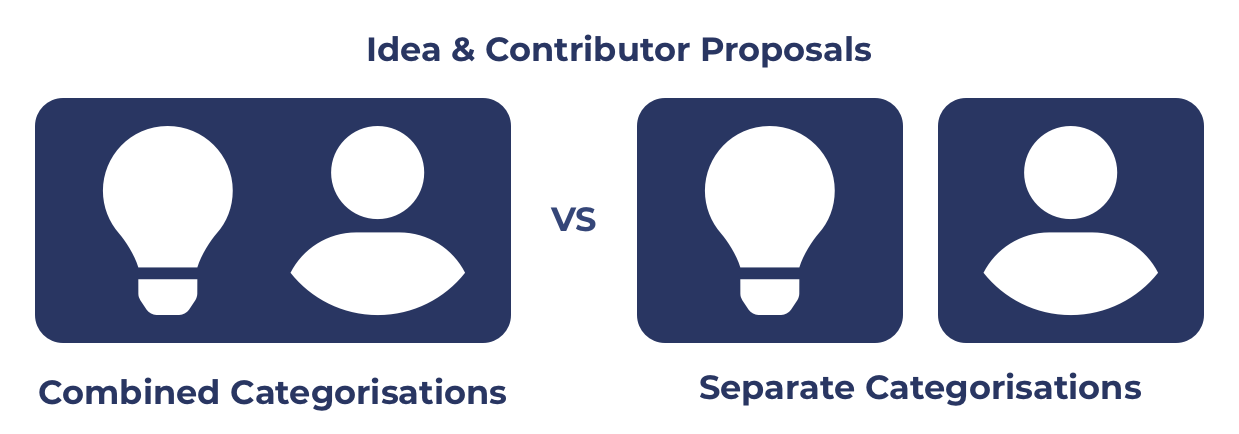
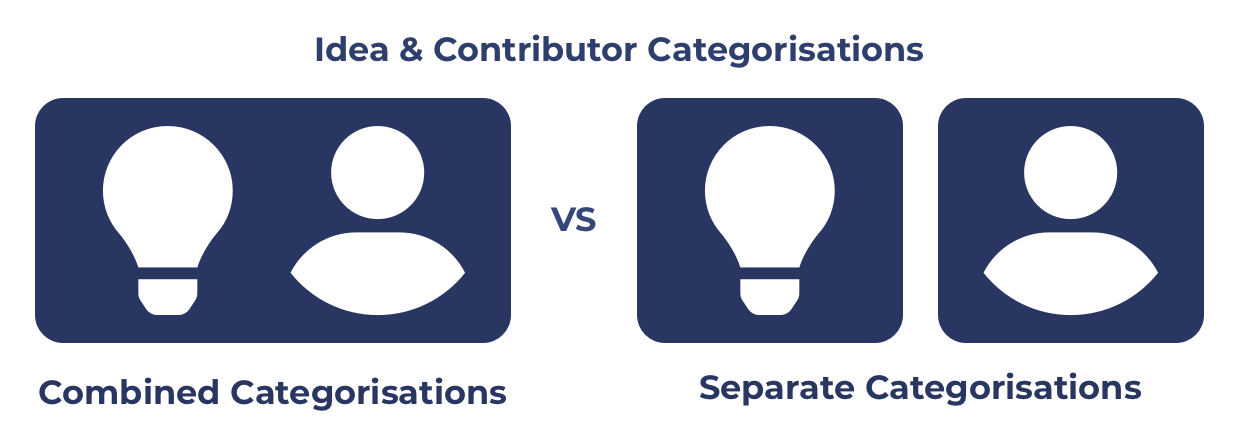
GitBook: [#7] No subject

Changed region(s): [[0.2454, 0.0899, 0.7667, 0.1498]]

diff --git a/funding-categorisation-analysis/combining-vs-separated-idea-and-contributor-categorisations.md b/funding-categorisation-analysis/combining-vs-separated-idea-and-contributor-categorisations.md
@@ -1,0 +1,85 @@
+---
+description: >-
+  Analysing whether idea and contributor categorisations should be in combined
+  or separate
+---
+
+# Combining vs Separated Idea & Contributor Categorisations
+
+<figure><img src="../.gitbook/assets/ideas-contributors-categorisations.png" alt=""><figcaption></figcaption></figure>
+
+Consider the potential focus area responsibilities for [Catalyst Contributors](https://docs.catalystcontributors.org/catalyst-contributors/catalyst-contributor/focus-areas) and [Cardano Contributors](https://docs.catalystcontributors.org/cardano-contributors/cardano-contributor/focus-areas).
+
+****
+
+**Factors to consider**
+
+* **Proposal funding frequency** - What frequency is needed for submitting either the idea or contributor based proposals? Is there a reason this frequency will diverge over time?
+* **Funding allocation clarity** - What clarity is provided by the approach used in how much funding will be allocated to ideas or contributor initiatives?
+* **Proposal structure** - What information is needed for idea and contributor proposals? How do they differ and what implications does that have?
+* **Proposal assessment approach** - How do idea or contributor proposals differ in how they are assessed and will this diverge over time?
+* **Proposal ranking** - What factors influence how the different proposal types are ranked? When should a good contributor proposal outrank a good idea proposal?
+* **Voting flexibility** - How easily can voters allocate funding to a wide range of initiatives at the voting stage?
+* **Voting complexity** - Is it easy for voters to understand and compare the options presented to them to make well informed decisions? Is it clear on the implications of their vote in terms of the outcomes that could happen?
+* **Insight and data integration** - Can insights and data be easily integrated into the funding process based on the approach being used?
+* **Categorisation clarity** - What clarity is there on how the categorisation should be used for proposers and voters?
+* **Categorisation budget weighting complexity** - How complex is it to decide on budget weightings due to the approach being used?
+* **Catalyst and Cardano ecosystem stability** - Do contributors receive delegated authority and stewardship to support and improve parts of the ecosystem? How important is their role in maintaining stability of the ecosystem?
+
+
+
+### **Categorisations that combine idea and contributor proposals**
+
+****
+
+**Advantages**
+
+* **More voting flexibility** - Voters can decide where to allocate funding between both ideas and contributors in a single categorisation. This gives them more flexibility at the voting stage.
+* **Lower categorisation budget weighting complexity** - Combining the idea and contributor categorisations reduces the number of categorisations which can help to decrease the complexity of handling budget weighting decisions between categorisations.
+
+
+
+**Issues**
+
+* **Diverging proposal funding frequencies** - Electing people to be responsible for supporting the ecosystem could become a high importance role for the ecosystem. This makes it less suitable for constantly changing who is elected. In comparison idea proposals could have a far higher frequency of being selected for funding. Idea proposals aren’t given the same responsibilities to support and maintain the ecosystem like contributors can be. Ideas are also independent from one another and can be executed separately. It is likely that the funding frequency for these proposal types differ as the community takes more ownership over the funding process and the importance of contributors over IOG increases over time.
+* **Poor funding allocation clarity** - Combining ideas and contributors into a combined single category makes it less clear on how much funding will actually be directed to contributors who are supporting and improving the ecosystem or ideas. The community can benefit from being able to be explicit on how much funding they believe is necessary for funding contributors.
+* **Difficulty handling diverging proposal structures** - Idea and contributor proposal structures will diverge over time as they require different information. This makes it more complex for proposers if multiple proposal type options are being used in single categorisations that represent very different intentions and commitments.
+* **Difficulty handling diverging proposal assessment approaches** - As idea and contributor proposals get standardised the way in which they are assessed will likely diverge over time to better find optimum ways to evaluate the different content in each proposal. By combining ideas and contributors in a single categorisation the clarity and complexity of assessing and comparing multiple types of proposal can increase over time.
+* **Higher complexity for proposal ranking** - As idea and contributor proposals would be different in the content and attributes added. Due to this the complexity of ranking them increases. When should a good contributor proposal rank higher than a good idea proposal? What are the implications of any the differences in how they are assessed in how that influences the rankings?
+* **Higher voting complexity** - Voters have a higher complexity decision to make when combining idea and contributor proposals as they must be able to compare the merits of different intents from the proposals. Complexity is also increased if the number of contributors that are elected could have a significant impact on the level of support and maintenance the ecosystem is going to receive due to the outcome of the vote. The voter would then need to be concerned with ensuring enough contributors are elected in that combined categorisation to support the needs of the ecosystem when comparing with idea proposals.
+* **More complex user experience with insights and data** - Insights and data for comparing proposals that proposers, assessors and voters may use would be more difficult if the structure and intent of the proposals are very different. The same insights and attributes relevant to contributors are likely not applicable to idea proposals. Insights and data could still be integrated separately to each proposal type however the quality of the user experience when viewing those proposals collectively in a categorisation becomes more challenging.
+* **Lower categorisation clarity** - Mixing idea and contributor proposals would increase complexity in understanding the exact purpose of the categorisation. If the contributors being elected are being given delegated authority over important areas in the ecosystem this increases complexity further as combining multiple proposal types increases the potential adverse outcomes that could occur - such as too many or no contributors at all being elected.
+* **Lower Catalyst and Cardano ecosystem stability** - Unless there is any guarantee on a number of contributors that will be elected there is decreased stability as no assurances could be given on having enough people get elected to support and maintain the Catalyst and Cardano ecosystems.
+
+
+
+### **Categorisations that keep idea and contributor proposals separated**
+
+****
+
+**Advantages**
+
+* **Handles diverging proposal funding frequency** - If the frequency of funding contributors and ideas diverges over time then keeping these proposal types separate in different categorisations will mean being able to accommodate these changes. Catalyst and Cardano contributors for instance requires a level of knowledge about the ecosystem that would take time to learn. These contributors benefit from being incentivised to stay for a sufficient period of time so that they can deliver value and impact to the ecosystem. The funding frequency of electing contributors to support the Catalyst or Cardano ecosystems therefore may be slower than the frequency that the community wants to fund ideas. If the elected contributors were constantly changing it would be far more difficult to effectively understand the ecosystem, organise themselves, collaborate and deliver impact.
+* **High funding allocation clarity** - Having idea and contributor proposals in separate categorisations gives the community more precise clarity on exactly how much funding they are directing to people working full time in the ecosystem compared to what funding is going towards ideas they want to get executed. This produces clearer guarantees for the community in how funding will be used.
+* **Handles diverging proposal structures** - Having different proposal standards for idea and contributor proposals will mean they can be better supported by using separate categorisations that would allow for those standards to be applied fully as they are intended. Separate categorisations will mean supporting different requirements for both types of proposal.
+* **Handles diverging proposal assessment approaches** - As idea and contributor proposals get standardised the way in which they are assessed will likely diverge over time to better find optimum ways to evaluate the different content in each proposal. Keeping idea and contributor proposals separate in explicit categorisations will mean assessors can focus on assessing the proposals in categorisations that they are most effective at assessing.
+* **Easier proposal ranking** - If proposals are the same type with the same content and attributes in a categorisation it will be easier to apply an approach to rank those proposals.
+* **Lower voting complexity** - Voters or dReps can focus on one categorisation at a time and then more easily compare the same type of proposal. This scales more easily for dReps as they can specialise in understanding a market of potential contributors or for ideas the current state of the ecosystem. This increases clarity for decisions being made and for voters to make more informed decisions of how best to vote.
+* **Simpler insight and data user experience** - Data and insights relevant to contributors can be more easily shown and integrated into the user experience if a categorisation is only focussed on contributor proposals. For instance there could be an insight about the average amount of contributions towards development made by all previous contributors. This insight could be compared against every contributor proposal in the categorisation with a user interface that could better visualise these insights and data against all the proposals submitted.
+* **Higher categorisation clarity** - The intent of a separate contributor categorisation is clearer on its own as then all the voter needs to know is that they are just comparing and selecting from potential contributors that want to work in the ecosystem for a certain purpose. The categorisation name can reflect this, such as ‘Catalyst Contributors’. This makes the categorisation very clear on in its intent - to elect contributors that will be helping to support Catalyst. Increased categorisation clarity improves the user experience for voters, proposers and assessors.
+* **Higher Catalyst and Cardano ecosystem stability** - If a separate contributor categorisation is used there will be a better guarantee that a certain number of contributors can be elected and paid for based on community decisions around the total budget that the categorisation is allocated. This helps keep the number of contributors elected at a given moment stable and more deliberate based on the communities budget weighting allocation.
+
+****
+
+**Issues**
+
+* **Less voting flexibility** - Voters have less flexibility to direct funds at the voting stage as budget amounts would have already been decided and allocated between the idea or contributor categorisations.
+* **Higher categorisation budget weighting complexity** - Separate categorisations for ideas and contributors mean more categorisations are needed. This will increase the complexity for determining the budget weightings to apply to each categorisation.
+
+
+
+### **Summary**
+
+* **Diverging funding frequencies** - The more important that funding full time contributors become to support and maintain the ecosystem the more likely it is for the need for longer term incentives so people have continuity to work in the ecosystem. Idea based proposals on the other hand are independent from one another and benefit from faster support from the community to take action on good ideas. Diverging requirements for idea and contributor proposals means the community will benefit from using separated categorisations to support these differences.
+* **Diverging standards and processes** - How idea and contributor proposals are created, verified, assessed and ranked will likely diverge over time as they require a different set of information and surrounding data and context to make informed decisions of which proposals are high quality and what impact they might have. As the approach used for these proposal types diverge the infrastructure and processes that is built around those proposals will benefit from custom solutions best suited to each type.
+* **Increasing clarity** - To pass over responsibility from IOG as a central entity to the community there is merit to having the protocol to directly pay for community members to support, maintain and improve the ecosystem as voted on by the community. Keeping idea and contributor proposals separate means they can be highly explicit on the intention and implications of the proposals in the categorisation. Increased clarity on the importance and intent of both these proposal types will make it easier for the community to make better informed voting decisions.

diff --git a/funding-categorisation-analysis/scaling-funding-categories.md b/funding-categorisation-analysis/scaling-funding-categories.md
@@ -1,0 +1,84 @@
+---
+description: >-
+  Exploring how the ecosystem will be able to further scale funding categories
+  in the future
+---
+
+# Scaling Funding Categories
+
+### Initial funding categories implementation
+
+An initial implementation of using funding categories could be to use the suggested categorisations in each funding round and simply add functionality to the voting app so that the community can vote on the percentage weighting to apply to each categorisation for the next funding round.
+
+Funding categories are meant to be recurring and used in each round. Funding categories would still need to be changed over time to respond to how they’re actually used and be able to be updated based on changing requirements. A manual process through IOG or using a change proposal based approach could be used in the short term to make these amendments to any of the categories based on new data, insights or feedback.
+
+This initial implementation is simple and also allows the community to start learning about how the community actually uses and votes on category budget weightings. After this initial implementation there are a number of ways that will help to scale the usage of funding categories.
+
+
+
+### 1. Integrate approaches for the community to more effectively direct funding so they can handle an increasing number of proposals in each funding categorisation
+
+Broad categorisations increase the number of proposals that can be submitted into a single categorisation. To be able to handle broader categorisations, or even just categorisations that receive a large amount of proposals, the processes and voting infrastructure being used in the ecosystem will need to help make it easy and efficient to identify, compare and vote on impactful initiatives.
+
+Improving the information flow about priorities and historical ecosystem data will help provide more insights to the community that help with making well informed decisions. There are a wide number of approaches for the ecosystem to explore in how to improve how the community directs funding to high impact initiatives.
+
+Some example approaches to help with directing funding include proposal tagging, community curated lists, proposal standards, previous funded proposal data, ecosystem data, community priority reports, community problem voting, community priority voting, proposal interaction and feedback data, proposal assessments, insight sharing and delegated representatives.
+
+Community priority setting would especially help with ranking and comparing potential proposals. If the community has effective tooling for expressing what they believe is the highest priority right now this information can help influence the ranking of proposals during the voting stage. This data helps to inform the voter about which proposals are tackling certain priorities and then more easily compare similar proposals that address each priority when casting their vote.
+
+Exploring and integrating as many approaches to effectively direct funding as possible will be important for scaling funding categories. These approaches will determine how effective the community becomes in handling a larger number of proposals in each categorisation.
+
+
+
+### 2. Integrate data and insights to make it easier for the community to make budget weighting decisions
+
+Data produced by some of the approaches mentioned above can help improve how the community directs funding. These approaches can also produce data that is relevant for helping the community make well informed budget weighting decisions for funding categories.
+
+Data around the total amount of requested funding, number of funded and unfunded proposals and number of proposals that meet a certain quality threshold in each categorisation would all good examples of useful historical data. With this data the community would be able to see how popular each category is, how many proposals were not funded in each category and what number of proposals not funded met a certain quality threshold. The community can use this information when making considerations for the budget weightings to apply to each category in the next funding round.
+
+Another area of data that will be useful for improving community set budget weighting decisions is information around the completion of previous projects. If the community can easily see the the amount or percentage of projects that have completed their proposals within different categories then this information can be useful to know which categories are performing better than others and also which ones are quicker in having their proposals completed.
+
+Community priority setting with goals and objectives is another valuable source of information for the community in helping with budget weighting decisions. If community priorities are voted on then it would highlight which priorities are the most upvoted and important in the community. Some priorities will be more suited to certain solutions approaches to effectively address that priority. For the categories that invite solutions relevant to those priorities this information for the community would give an indication of which funding categorisations would benefit from further budget weighting in the next funding round.
+
+
+
+### 3. Reduce the number of categorisations to reduce the budget weighting decision complexity
+
+There are a few reasons the number of categorisations could be reduced over time. Less categorisations means less effort and voting time is needed for the community to set the budget weightings. This reduces complexity and time needed for the community to manage and vote on funding categorisations. Any consideration in the reduction of the number of categories also would need to take into account how this categorisation reduction might increase the complexity at the voting stage due to the voter needing to comparing proposals with even more focus areas and types in the same categorisation.
+
+The first reason the number of categories may be reduced is the funding process will eventually have more tools and processes to make it easier for the community to effectively direct funding. In that event the community will be able to handle a larger amount of proposals in each funding categorisation. The better the community can handle a larger amount of proposals the more merit there is considering the reduction of the number of categories to reduce budget weighting complexity.
+
+The second factor that may reduce the number of categorisations is that the funding categories which make sense in the present day may be less relevant or as widely used in the future. For instance governance & identity and development & infrastructure are both focussed more on the Cardano ecosystem. Once a larger amount of open source infrastructure and tooling is available these categorisations may be used less than other categorisations. In that event it may make sense to merge the categorisations together into a single category due to them being less relevant to the priorities of the ecosystem at the time.
+
+
+
+### 4. Create an algorithm using priority and historical ecosystem data to help automate the funding category budget weighting decisions
+
+Creating an algorithm would be possible when there is a sufficient amount of data within the funding process that is relevant and useful in making sufficient suggestions for what a good budget weighting could be for each category.
+
+One example area that would be valuable for this algorithm could be the communities ability to set priorities. Community set priorities for the ecosystem would help create data that could influence an algorithm to determine the suggested category budget weightings. When certain priorities are more relevant to certain categories this would be a reason why a certain category may receive an increase amount of weighting. For instance, the community could believe that a Cardano node implementation written in different languages was an important priority. If this was the case it could result in influencing an increase of the budget available for the development & infrastructure category.
+
+Another factor that can help to influence a budget weighting algorithm could be the historical data about proposals. For the last round of funding there is data available about the total amount of proposals submitted into each categorisation, the total amount requested, the overall quality of those proposals based on some quality threshold and how many of those proposals were funded and how many were unfunded that were tackling high priority areas. All of this data could be used in an algorithm to influence suggestions towards what budget weightings could be applied to the funding categories in the next funding round.
+
+With sufficient data available from the funding process an algorithm could weight certain factors more than others. For instance if tackling priorities is the biggest preference of the community then an approach could be to weight the priorities of the community more heavily than the historical proposal data. Alternatively, if the community believes that funding high quality proposals is the most important factor then the algorithm could weight the historical proposal data more heavily based on the amount of high quality proposals that were not funded in each category from the previous round. Once useful data is available for this algorithm the community will be able to back test any parameter change to the algorithm to see how this influences the outcomes. This type of analysis would produce a stronger evidence based approach to proving the potential impact of the algorithm and the implications of any parameter changes.
+
+In terms of actually implementing an algorithm and integrating it into the funding process an initial implementation could simply be just produce suggestions to the community to consider when casting their own budget weighting vote. If the community reach consensus that the output from the algorithm is to a sufficient standard then a vote could be made to allow the algorithm to replace the need for the community to vote on the budget weightings. If the algorithm was adopted fully then the community would then be able to save any effort from making a budget weighting decision and could instead direct all their attention on setting community priorities and identifying, comparing and voting on high impact proposals.
+
+
+
+### Reasons why the community setting the budget weightings could be a long term solution
+
+There is no guarantee that the number of broad categorisations should be further reduced or that an algorithm will actually be effective for improving or automating budget weighting decisions. There are a number of reasons that a manual solution where the community sets the budget weightings may become the long term solution:
+
+* The community may have a preference of directly voting on the budgets for each category and want to have this direct influence rather than pushing this responsibility to an automated algorithm.
+* Even with more sophisticated tools and processes for identifying, comparing and voting on high impact initiatives it could still be very difficult for the community to direct funding effectively. In that event it would be more difficult to broaden the categorisations any further as that would mean increasing the number of proposals in each categorisation and be overly complex if the community is still struggling to effectively direct funding.
+* The suggested algorithm to help with automating the process could be too difficult to create and maintain due to the influence of external factors. It could be difficult to prevent bad actors influencing the algorithm in harmful ways or the algorithm could simply not be as effective for applying sensible budget weightings due to the amount of variables it needs to consider.
+
+
+
+### Summary
+
+* An initial implementation of allowing the community to directly vote on the budget weightings for categories is a simple and effective solution for the short term. It will allow the community to experience what it’s like to make considerations and their own choices towards how to effectively vote on budget weightings for categories to allocate more funding to certain groupings of focus areas over others.
+* Creating tools and processes to effectively direct funding and also integrating data and insights will both be needed to help initially scale funding categories. This will improve how easy it is to use funding categories and also improve how easy it is for the community to make budget weighting decisions.
+* Once these initial areas are explored further and the voting infrastructure improves the community will be able to explore the possibilities of trying to simplify the categorisations by either reducing the total amount of categorisations used and also potentially introducing an algorithm to make suggestions or automate the budget weighting process. There is no guarantee that either of these scaling approaches will be needed or even preferred. More data and analysis will be needed once the first two areas of improvement are completed.
+* Increasing the scalability and automation of funding categorisation will be important to reaching global adoption. Achieving better scalability for funding categorisation will mean more time and effort can be allocated to setting community priorities and identifying, comparing and voting on high impact initiatives that help to support, grow and improve the ecosystem.

diff --git a/SUMMARY.md b/SUMMARY.md
@@ -1,61 +1,51 @@
 # Table of contents
 
 * [Overview](README.md)
+* [What Is Funding Categorisation?](what-is-funding-categorisation.md)
 
-## Categorisation Approaches
+## Funding Categorisation Types Analysis
 
-* [Overview](categorisation-approaches/overview.md)
-* [Broad vs Specific Categorisations](categorisation-approaches/broad-vs-specific-categorisations.md)
-* [Inclusive vs Exclusive Categorisations](categorisation-approaches/inclusive-vs-exclusive-categorisations.md)
-* [Unique vs Overlapping Categorisations](categorisation-approaches/unique-vs-overlapping-categorisations.md)
-* [Recurring vs Changing Categorisations](categorisation-approaches/recurring-vs-changing-categorisations.md)
+* [Idea Categorisation Analysis](https://app.gitbook.com/o/Pr76HeHUxsbctwx0OULs/s/wD0ZpGoCt4aFrCJnqaW0/)
+* [Contributor Categorisation Analysis](https://app.gitbook.com/o/Pr76HeHUxsbctwx0OULs/s/gdWEUdtxBpngJ9kJPPlB/)
 
-## Advantages Of Suggested Idea Categories
+## Funding Categorisation Analysis
 
-* [Overview](advantages-of-suggested-idea-categories/overview.md)
-* [Efficient](advantages-of-suggested-idea-categories/efficient.md)
-* [Simple](advantages-of-suggested-idea-categories/simple.md)
-* [Flexible](advantages-of-suggested-idea-categories/flexible.md)
-* [Scalable](advantages-of-suggested-idea-categories/scalable.md)
-* [Effectively Directs Funding](advantages-of-suggested-idea-categories/effectively-directs-funding.md)
-* [Egalitarian](advantages-of-suggested-idea-categories/egalitarian.md)
-* [Promotes Healthy Competition](advantages-of-suggested-idea-categories/promotes-healthy-competition.md)
+* [Scaling Funding Categories](funding-categorisation-analysis/scaling-funding-categories.md)
+* [Combining vs Separated Idea & Contributor Categorisations](funding-categorisation-analysis/combining-vs-separated-idea-and-contributor-categorisations.md)
 
-## Idea Categorisation Analysis
+## Community Goals & Objectives
 
-* [Rapid Funding Considerations](idea-categorisation-analysis/rapid-funding-considerations.md)
-* [Scaling Funding Categories](idea-categorisation-analysis/scaling-funding-categories.md)
-* [Incentives & Game Theory For Open Source Development](idea-categorisation-analysis/incentives-and-game-theory-for-open-source-development.md)
-* [Community Priorities & Idea Proposal Supply Dynamics](idea-categorisation-analysis/community-priorities-and-idea-proposal-supply-dynamics.md)
-* [Addressing Concerns & Challenging Funding Situations](idea-categorisation-analysis/addressing-concerns-and-challenging-funding-situations/README.md)
-  * [High Proposal Competition](idea-categorisation-analysis/addressing-concerns-and-challenging-funding-situations/high-proposal-competition/README.md)
-    * [Proposers With Fewer Resources Considerations](idea-categorisation-analysis/addressing-concerns-and-challenging-funding-situations/high-proposal-competition/proposers-with-fewer-resources-considerations.md)
-  * [Low Proposal Visibility](idea-categorisation-analysis/addressing-concerns-and-challenging-funding-situations/low-proposal-visibility.md)
-  * [Reducing Idea Generation](idea-categorisation-analysis/addressing-concerns-and-challenging-funding-situations/reducing-idea-generation.md)
-  * [Decreased Proposal Submission Encouragement](idea-categorisation-analysis/addressing-concerns-and-challenging-funding-situations/decreased-proposal-submission-encouragement.md)
-  * [Difficulty Directing Funding](idea-categorisation-analysis/addressing-concerns-and-challenging-funding-situations/difficulty-directing-funding.md)
-  * [Reduced Verifiability](idea-categorisation-analysis/addressing-concerns-and-challenging-funding-situations/reduced-verifiability.md)
-  * [Less Specialised Challenge Teams](idea-categorisation-analysis/addressing-concerns-and-challenging-funding-situations/less-specialised-challenge-teams.md)
-  * [Not Enough Proposals Submitted](idea-categorisation-analysis/addressing-concerns-and-challenging-funding-situations/not-enough-proposals-submitted.md)
-  * [Low Quality Proposals](idea-categorisation-analysis/addressing-concerns-and-challenging-funding-situations/low-quality-proposals.md)
-  * [High Quality Proposals Cannot Be Submitted](idea-categorisation-analysis/addressing-concerns-and-challenging-funding-situations/high-quality-proposals-cannot-be-submitted.md)
-  * [Excessive Funding Requests](idea-categorisation-analysis/addressing-concerns-and-challenging-funding-situations/excessive-funding-requests.md)
-* [Alternative Idea Funding Categorisations](idea-categorisation-analysis/alternative-idea-funding-categorisations/README.md)
-  * [One categorisation](idea-categorisation-analysis/alternative-idea-funding-categorisations/one-categorisation.md)
-  * [Three categorisations](idea-categorisation-analysis/alternative-idea-funding-categorisations/three-categorisations.md)
-  * [Four categorisations (Recommended)](idea-categorisation-analysis/alternative-idea-funding-categorisations/four-categorisations-recommended.md)
-* [Approaches For Directing Funding](idea-categorisation-analysis/approaches-for-directing-funding.md)
-* [Combining vs Separating Idea & Contributor Proposals](idea-categorisation-analysis/combining-vs-separating-idea-and-contributor-proposals.md)
-* [Egalitarian Funding Categorisation](idea-categorisation-analysis/egalitarian-funding-categorisation.md)
-* [Focus Area Categorisation Approaches](idea-categorisation-analysis/focus-area-categorisation-approaches.md)
-* [Review Of Paper “A Treasury System for Cryptocurrencies"](idea-categorisation-analysis/review-of-paper-a-treasury-system-for-cryptocurrencies.md)
+* [Goals & Objectives](community-goals-and-objectives/goals-and-objectives.md)
+* [Objective Setting](community-goals-and-objectives/objective-setting.md)
+* [Progress & Outcome Auditing](community-goals-and-objectives/progress-and-outcome-auditing.md)
+* [Independent Goals & Objective Setting Process](community-goals-and-objectives/independent-goals-and-objective-setting-process.md)
+* [Goals & Objectives With Challenge Settings](community-goals-and-objectives/goals-and-objectives-with-challenge-settings.md)
+* [Goal & Objectives With Funding Categories](community-goals-and-objectives/goal-and-objectives-with-funding-categories.md)
+* [Integrating Goals & Objectives Into Voting](community-goals-and-objectives/integrating-goals-and-objectives-into-voting.md)
 
-## Experimental Categories Analysis
+## Historical Analysis & Comparisons
 
-* [Nurturing Ideas & Team Category](experimental-categories-analysis/nurturing-ideas-and-team-category.md)
+* [Categorisation Overall Cost Comparison](historical-analysis-and-comparisons/categorisation-overall-cost-comparison/README.md)
+  * [Methodology & Data](historical-analysis-and-comparisons/categorisation-overall-cost-comparison/methodology-and-data.md)
+* [Funding Access For Each Focus Area](historical-analysis-and-comparisons/funding-access-for-each-focus-area/README.md)
+  * [Methodology, Data & Feedback](historical-analysis-and-comparisons/funding-access-for-each-focus-area/methodology-data-and-feedback.md)
+  * [Fund 10](historical-analysis-and-comparisons/funding-access-for-each-focus-area/fund-10.md)
+  * [Fund 9](historical-analysis-and-comparisons/funding-access-for-each-focus-area/fund-9.md)
+  * [Fund 8](historical-analysis-and-comparisons/funding-access-for-each-focus-area/fund-8.md)
+  * [Fund 7](historical-analysis-and-comparisons/funding-access-for-each-focus-area/fund-7.md)
+* [Categorisation Setting Observations](historical-analysis-and-comparisons/categorisation-setting-observations/README.md)
+  * [Fund 8](historical-analysis-and-comparisons/categorisation-setting-observations/fund-8.md)
+* [Categories & Previous Selected Categorisations](historical-analysis-and-comparisons/categories-and-previous-selected-categorisations.md)
+* [Previous Selected Categorisations](historical-analysis-and-comparisons/previous-selected-categorisations/README.md)
+  * [All Previous Challenge Setting](historical-analysis-and-comparisons/previous-selected-categorisations/all-previous-challenge-setting.md)
+
+## Challenge Settings
+
+* [Challenge Setting Process](challenge-settings/challenge-setting-process.md)
+* [Challenge Setting Issues](challenge-settings/challenge-setting-issues.md)
 
 ## 🔗 Links
 
-* [Funding Categorisation Analysis](https://app.gitbook.com/o/Pr76HeHUxsbctwx0OULs/s/vZLnuW1KMXXsbdPSzee1/)
+* [Funding Categories](https://app.gitbook.com/o/Pr76HeHUxsbctwx0OULs/s/QQsRsN95MX1ihFh4Vffn/)
 * [All Documentation](https://app.gitbook.com/o/Pr76HeHUxsbctwx0OULs/s/vfjkdYxpr0HB9rUDqH4r/)
 * [Suggest Changes & Give Feedback](https://docs.catalystcontributors.org/documentation/suggest-changes-and-give-feedback)

diff --git a/README.md b/README.md
@@ -1,18 +1,16 @@
 ---
-description: >-
-  Analysis of how funding is categorised in the Catalyst funding process for the
-  Cardano treasury with suggested improvements to funding categorisation
+description: Overview of the information covered in funding categorisation analysis
 ---
 
 # Overview
 
-There are a number of issues with the current [challenge setting process](https://docs.catalystcontributors.org/funding-categorisation-analysis-1/challenge-settings/challenge-setting-process) used in the Catalyst ecosystem. In this documentation you will find a break down of the current process, analysis on different ways to do categorisation, which attributes are preferable and more effective and suggestions towards an improved funding categorisation approach.
+Funding categorisation analysis covers the different types of funding categorisations that exist, the importance of goals and objectives and their implications on funding categorisations, the initial challenge setting process that was used in Project Catalyst and the historical data around the usage of funding categorisations&#x20;
 
-<figure><img src=".gitbook/assets/category-proposals.png" alt=""><figcaption></figcaption></figure>
+
 
 ### Contents
 
-* ****[**Categorisation Approaches**](broken-reference) - Analysis looking at the different approaches for funding categorisation and how they impact the funding process to determine which approaches are more desirable.
-* ****[**Advantages of Suggested Idea Categories**](broken-reference) - A list of all of the advantages of using the suggested idea funding categories.
-* ****[**Idea Categorisation Analysis**](broken-reference) - Analysing different factors and approaches that can be used for idea categorisations and also addressing a number of concerns and questions.
-* [**Experimental Categories Analysis**](broken-reference) - Analysis for understanding why a suggested experimental category can be introduced and what problems it could help solve.
+* ****[**Funding Categorisation Types Analysis**](broken-reference) - Links to analysis on the different approaches that can be used for funding categorisations.
+* ****[**Community Goals & Objectives**](broken-reference) - Analysis covering the importance of goals and objective and the implications it has on how to approach funding categorisations
+* ****[**Historical Analysis & Comparisons**](broken-reference) - Exploring historical changes in funding categorisations and comparisons between funding categories and challenge settings.
+* ****[**Challenge Settings**](broken-reference) - Exploring the current challenge setting process and the issues involved, the issues on how challenge settings are assessed and also a list of the previously selected challenges from previous funding rounds.
